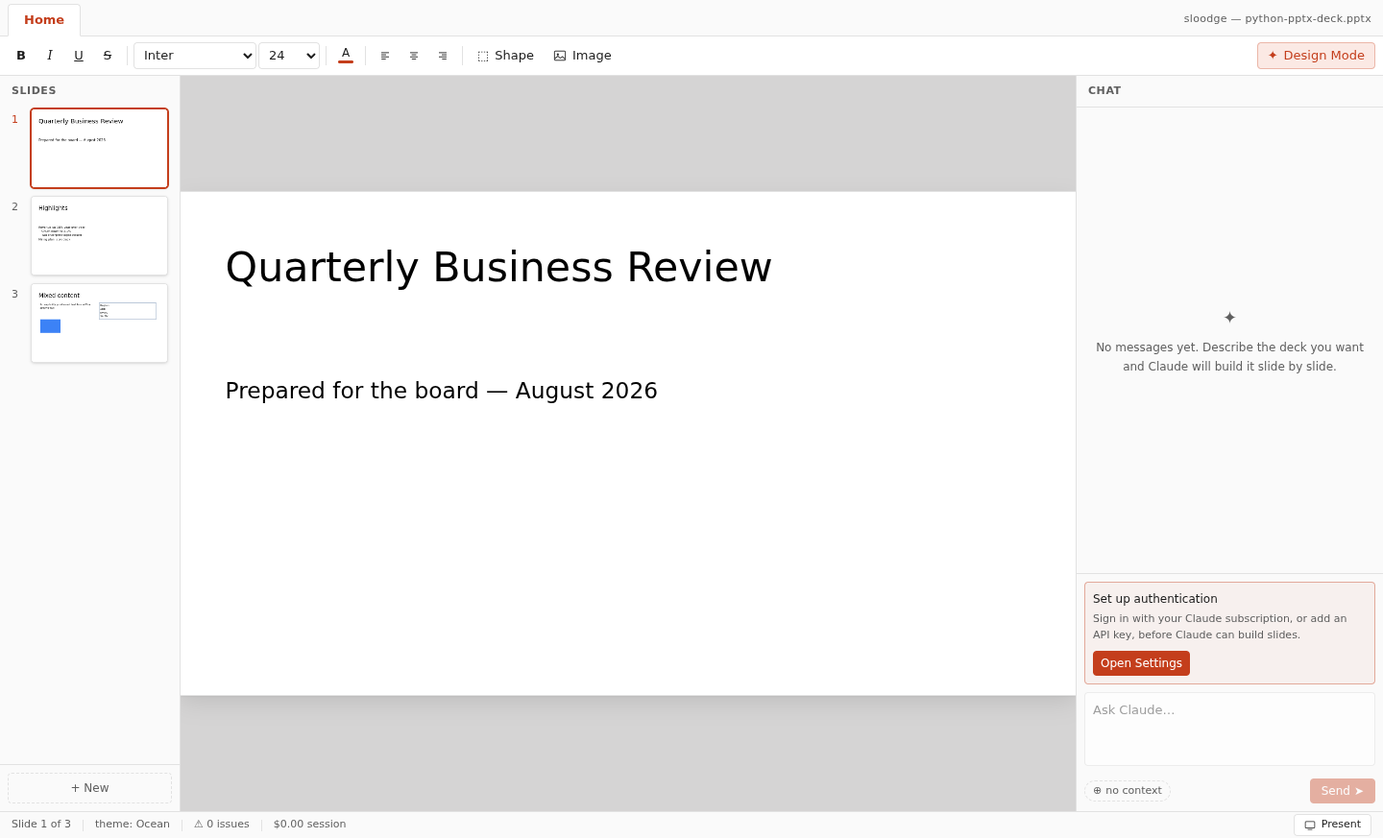
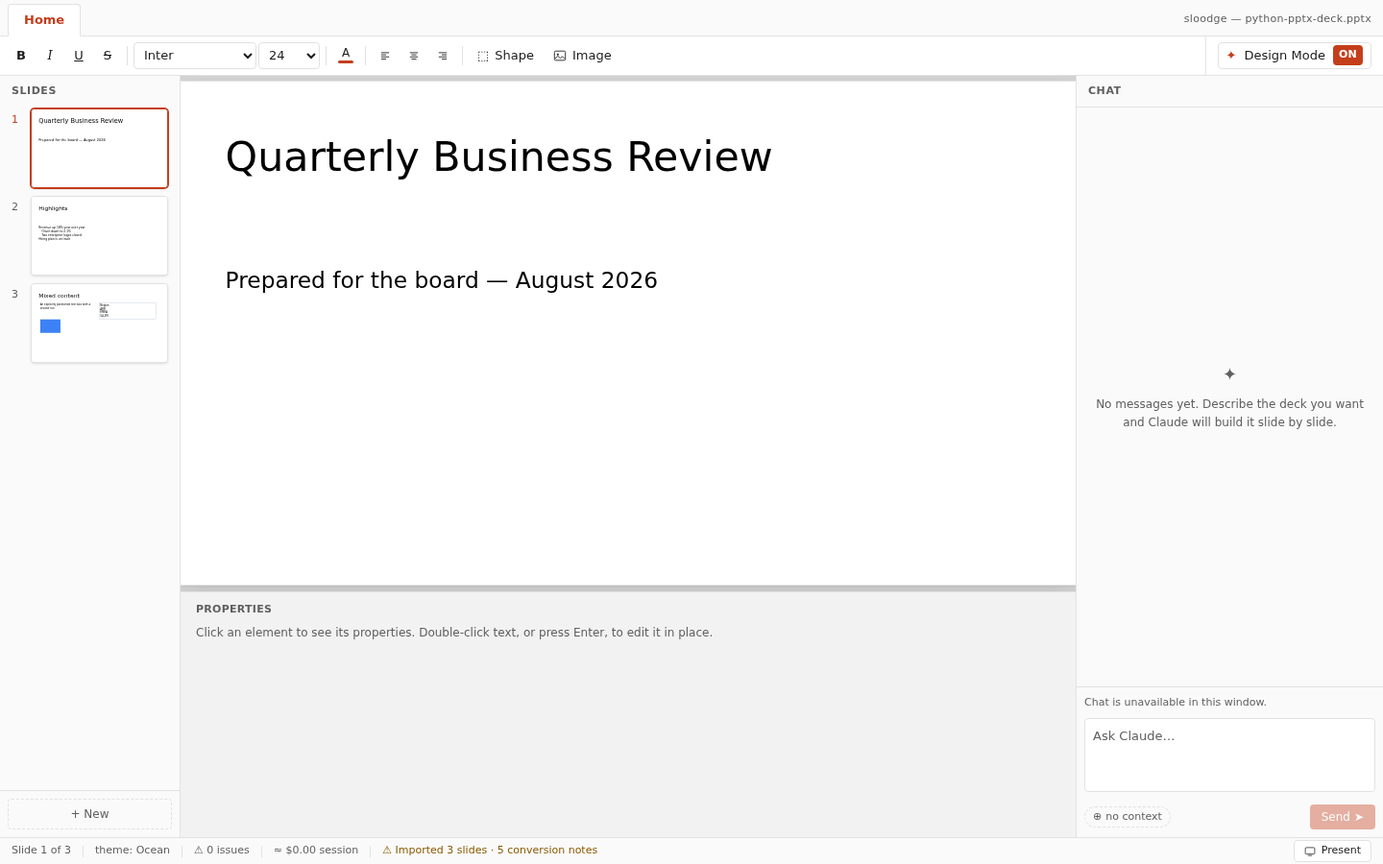
fix: refuse a zip that names a part twice, and three r8 nits
**Major (archive.ts).** The hardened reader accepted a central directory listing
the same entry name twice and silently kept the last. Reproduced through the
real import path: a 44-entry `.pptx` with `ppt/slides/slide1.xml` listed twice
imported with zero warnings and `partCount` 43, rendered the *second* copy, and
a patched export then emitted 43 entries while `verifyPassthrough` and M4.6's
identity test both answered `ok` with an empty `missing` list — because both
compare part-name *sets*, which cannot see a shadowed duplicate. The verifier
was structurally unable to see its own subject, on the boundary M4.5's whole
value proposition rests on.

The reader now refuses the package before a byte is inflated, directory markers
included, the way it already refuses aliased local headers, ZIP64 divergence and
prototype keys. Nothing legitimate is lost: OPC requires part names to be
unique, so a duplicate is malformed to every reader that has an opinion — .NET's
`ZipPackage` refuses it, Python's `zipfile` warns and takes the last, fflate
takes the last silently. `verifyPassthrough`'s docblock now states that its
name-keyed comparison depends on that guarantee.

`zipSync` takes an object, so duplicate keys collapse before it runs and the
archive has to be written by hand: `tests/support/hand-rolled-zip.ts` is a
STORED-only writer for shapes fflate cannot emit. Both halves are covered — a
`.sloodge` whose manifest is shadowed by different bytes, a duplicated directory
[…]

diff --git a/tests/unit/document/store.test.ts b/tests/unit/document/store.test.ts
@@ -12,6 +12,7 @@ import {
 import { createStarterSlideHtml } from '../../../src/shared/document/starter-slide'
 import {
   DEFAULT_THEME_PATH,
+  MANIFEST_ENTRY,
   MAX_FORMAT_VERSION,
   type Theme,
 } from '../../../src/shared/document/types'
@@ -22,6 +23,7 @@ import {
   hasStaleTmp,
   type DeckBundle,
 } from '../../../src/main/document/store'
+import { handRolledZip, type HandRolledEntry } from '../../support/hand-rolled-zip'
 
 const T0 = 1_770_000_000_000
 const THEME_ID = 't_01H8XQZ4P7K2M9NB3VYRTC6FDA'
@@ -928,6 +930,81 @@ describe('archive resource caps — STORED members and aliased local headers (B2
     if (result.ok) return
     expect(result.error.code).toBe('too-large')
     expect(result.error.message).toContain('declares 10000000 entries')
+  })
+})
+
+/** A packed deck's entries, in the order the archive lists them, ready to re-emit by hand. */
+function deckEntriesInOrder(bytes: Uint8Array): HandRolledEntry[] {
+  return Object.entries(unzipSync(bytes)).map(([name, data]) => ({ name, bytes: data }))
+}
+
+describe('archive entry names are unique (r8)', () => {
+  /**
+   * The zip format lets a central directory list one name twice; OPC forbids it, and readers
+   * disagree about a violation — .NET's `ZipPackage` refuses the package, Python's `zipfile` warns
+   * and takes the last, fflate silently takes the last. Round 8 reproduced the consequence through
+   * the real import path: a 44-entry `.pptx` with `ppt/slides/slide1.xml` listed twice imported
+   * with zero warnings, rendered the *second* copy, and a patched export then emitted 43 entries
+   * while `verifyPassthrough` and M4.6's identity test both answered `ok` — because both compare
+   * part-name *sets*, which cannot see a shadowed duplicate.
+   *
+   * So the reader refuses the archive, and these tests are keyed to the property that made the
+   * differential invisible: the duplicate carries *different bytes* from the entry it shadows, and
+   * the control below is the same archive with the same part count and unique names.
+   */
+  async function craftHandRolled(name: string, entries: readonly HandRolledEntry[]) {
+    const path = join(dir, name)
+    await writeFile(path, handRolledZip(entries))
+    return path
+  }
+
+  it('refuses a deck whose central directory names one part twice', async () => {
+    const entries = deckEntriesInOrder(await packDeck(fixtureBundle()))
+    expect(entries.map((entry) => entry.name)).toContain(MANIFEST_ENTRY)
+    // A second copy under the same name, carrying bytes the first does not: last-wins would hand
+    // the reader a manifest the deck never had, and every name-keyed check would call it identical.
+    const path = await craftHandRolled('duplicate-name.sloodge', [
+      ...entries,
+      { name: MANIFEST_ENTRY, bytes: '{"formatVersion":1,"title":"shadow"}' },
+    ])
+
+    const result = await readDeck(path)
+    expect(result.ok).toBe(false)
+    if (result.ok) return
+    expect(result.error.code).toBe('not-a-zip')
+    expect(result.error.message).toContain('more than once')
+    expect(result.error.message).toContain(MANIFEST_ENTRY)
+  })
+
+  it('refuses a duplicated directory marker too', async () => {
+    // The check runs before the `isDirectory` skip on purpose: a marker is a declared name like any
+    // other, and refusing only the names we go on to keep would leave the reader's answer to "what
+    // does this archive contain" different from the archive's own.
+    const entries = deckEntriesInOrder(await packDeck(fixtureBundle()))
+    const path = await craftHandRolled('duplicate-dir-marker.sloodge', [
+      { name: 'assets/', bytes: new Uint8Array(0) },
+      ...entries,
+      { name: 'assets/', bytes: new Uint8Array(0) },
+    ])
+
+    const result = await readDeck(path)
+    expect(result.ok).toBe(false)
+    if (result.ok) return
+    expect(result.error.code).toBe('not-a-zip')
+    expect(result.error.message).toContain('assets/')
+  })
+
+  it('still reads the same hand-rolled archive when every name is unique', async () => {
+    // The control: same writer, same STORED members, same entry count as the duplicate case — so
+    // the rejections above are about the repeated name and not about a hand-rolled zip.
+    const entries = deckEntriesInOrder(await packDeck(fixtureBundle()))
+    const path = await craftHandRolled('unique-names.sloodge', [
+      ...entries,
+      { name: 'assets/extra-note.txt', bytes: '{"formatVersion":1,"title":"shadow"}' },
+    ])
+
+    const result = await readDeck(path)
+    expect(result.ok).toBe(true)
   })
 })
 

diff --git a/tests/unit/import/pptx-import.test.ts b/tests/unit/import/pptx-import.test.ts
@@ -10,7 +10,7 @@
 import { mkdtemp, writeFile } from 'node:fs/promises'
 import { tmpdir } from 'node:os'
 import { join } from 'node:path'
-import { strToU8, unzipSync, zipSync } from 'fflate'
+import { strFromU8, strToU8, unzipSync, zipSync } from 'fflate'
 import { beforeAll, describe, expect, it } from 'vitest'
 import { readFileSync } from 'node:fs'
 import { importPptx, SlideGate } from '../../../src/main/import/pptx-import'
@@ -20,6 +20,7 @@ import { createStarterSlideHtml } from '../../../src/shared/document/starter-sli
 import { parseManifest } from '../../../src/shared/document/types'
 import { LEDGER_ENTRY, ORIGINAL_ARCHIVE_ENTRY } from '../../../src/shared/import/pptx/ledger'
 import { fixturePath, PPTX_FIXTURES, readFixture } from './fixtures'
+import { handRolledZip } from '../../support/hand-rolled-zip'
 
 const NOW = 1_770_000_000_000
 
@@ -351,6 +352,53 @@ describe('rejections — a .pptx is an untrusted zip', () => {
     expect(result.ok).toBe(false)
     if (result.ok) return
     expect(result.error.code).toBe('not-found')
+  })
+
+  it('rejects a package whose central directory names a slide part twice', async () => {
+    // Round 8's differential, through the real import path. Before the reader refused it, this
+    // 44-entry archive imported with zero warnings and `partCount` 43, rendered the *second* copy
+    // of slide 1, and a patched export then emitted 43 entries while `verifyPassthrough` and
+    // M4.6's identity test both answered `ok` with an empty `missing` list — because both compare
+    // part-name sets, which cannot see a shadowed duplicate. The retained-archive guarantee is over
+    // bytes, so a reader that silently drops a part while every check says "identical" is the one
+    // failure retention exists to prevent.
+    //
+    // `zipSync` takes an object, so duplicate keys collapse before it runs; the archive has to be
+    // written by hand.
+    const parts = await fixtureParts()
+    const entries = Object.entries(parts).map(([name, bytes]) => ({ name, bytes }))
+    const slide = entries.find((entry) => entry.name === 'ppt/slides/slide1.xml')
+    if (slide === undefined) throw new Error('fixture has no ppt/slides/slide1.xml')
+
+    const shadow = strFromU8(slide.bytes).replace(
+      /Quarterly Business Review/g,
+      'DUPLICATE SECOND ENTRY',
+    )
+    expect(shadow).not.toBe(strFromU8(slide.bytes)) // the duplicate must differ, or it proves nothing
+
+    const path = join(dir, 'duplicate-part.pptx')
+    await writeFile(path, handRolledZip([...entries, { name: slide.name, bytes: strToU8(shadow) }]))
+
+    const result = await importPptx(path, { now: NOW })
+    expect(result.ok).toBe(false)
+    if (result.ok) return
+    expect(result.error.code).toBe('not-a-zip')
+    expect(result.error.message).toContain('ppt/slides/slide1.xml')
+    expect(result.error.message).toContain('more than once')
+  })
+
+  it('imports the same hand-rolled package when every part name is unique', async () => {
+    // The control: same writer, same STORED members, same part count as the duplicate case, so the
+    // refusal above is about the repeated name rather than about a hand-rolled zip.
+    const parts = await fixtureParts()
+    const entries = Object.entries(parts).map(([name, bytes]) => ({ name, bytes }))
+    const path = join(dir, 'hand-rolled-unique.pptx')
+    await writeFile(path, handRolledZip(entries))
+
+    const result = await importPptx(path, { now: NOW })
+    if (!result.ok) throw new Error(result.error.message)
+    expect(result.report.slideCount).toBe(3)
+    expect(result.report.partCount).toBe(entries.length)
   })
 
   it('rejects a zip that is not an OPC presentation', async () => {

diff --git a/tests/support/hand-rolled-zip.ts b/tests/support/hand-rolled-zip.ts
@@ -1,0 +1,81 @@
+/**
+ * A zip writer for shapes `fflate`'s `zipSync` cannot emit, so the hardened reader can be tested
+ * against files only a hostile or broken producer writes.
+ *
+ * Today that is one shape: a central directory that lists the same entry name twice. `zipSync`
+ * takes an object, so duplicate keys collapse before it ever runs — the only way to build the file
+ * is by hand. Every member is STORED, which keeps the writer to its point (offsets and the central
+ * directory) rather than a deflate implementation; the reader treats STORED and DEFLATE identically
+ * once a member is located, so nothing about the shape under test depends on the method.
+ *
+ * CRCs are left at zero deliberately. Nothing in `archive.ts` verifies them — a STORED member is
+ * `source.slice()` — so writing real ones would assert a property this reader does not have.
+ */
+
+import { strToU8 } from 'fflate'
+
+export type HandRolledEntry = {
+  /** The name as it goes into both headers, byte for byte. Duplicates are written, not merged. */
+  readonly name: string
+  readonly bytes: Uint8Array | string
+}
+
+/**
+ * A zip holding `entries` in the order given, each with its own local header and its own central
+ * directory record. Names are written verbatim, so passing the same name twice produces exactly the
+ * archive OPC forbids and readers disagree about.
+ */
+export function handRolledZip(entries: readonly HandRolledEntry[]): Uint8Array {
+  const locals: Uint8Array[] = []
+  const centrals: Uint8Array[] = []
+  let localOffset = 0
+
+  for (const entry of entries) {
+    const name = strToU8(entry.name)
+    const payload = typeof entry.bytes === 'string' ? strToU8(entry.bytes) : entry.bytes
+
+    const local = new Uint8Array(30 + name.length + payload.length)
+    const localView = new DataView(local.buffer)
+    localView.setUint32(0, 0x0403_4b50, true)
+    localView.setUint16(4, 20, true)
+    localView.setUint16(8, 0, true) // STORED
+    localView.setUint32(18, payload.length, true) // compressed size
+    localView.setUint32(22, payload.length, true) // uncompressed size
+    localView.setUint16(26, name.length, true)
+    local.set(name, 30)
+    local.set(payload, 30 + name.length)
+    locals.push(local)
+
+    const central = new Uint8Array(46 + name.length)
+    const centralView = new DataView(central.buffer)
+    centralView.setUint32(0, 0x0201_4b50, true)
+    centralView.setUint16(4, 20, true)
+    centralView.setUint16(6, 20, true)
+    centralView.setUint16(10, 0, true) // STORED
+    centralView.setUint32(20, payload.length, true)
+    centralView.setUint32(24, payload.length, true)
+    centralView.setUint16(28, name.length, true)
+    centralView.setUint32(42, localOffset, true)
+    central.set(name, 46)
+    centrals.push(central)
+
+    localOffset += local.length
+  }
+
+  const centralSize = centrals.reduce((sum, part) => sum + part.length, 0)
+  const eocd = new Uint8Array(22)
+  const eocdView = new DataView(eocd.buffer)
+  eocdView.setUint32(0, 0x0605_4b50, true)
+  eocdView.setUint16(8, entries.length, true)
+  eocdView.setUint16(10, entries.length, true)
+  eocdView.setUint32(12, centralSize, true)
+  eocdView.setUint32(16, localOffset, true)
+
+  const out = new Uint8Array(localOffset + centralSize + eocd.length)
+  let at = 0
+  for (const part of [...locals, ...centrals, eocd]) {
+    out.set(part, at)
+    at += part.length
+  }
+  return out
+}

diff --git a/tests/unit/import/slide-text-boundary.test.ts b/tests/unit/import/slide-text-boundary.test.ts
@@ -54,8 +54,21 @@ function sourceFiles(dir: string): string[] {
   return out
 }
 
-/** Source files (repo-relative, `/`-separated) containing a `function <name>(` declaration. */
-function definers(pattern: RegExp): string[] {
+/**
+ * Source files (repo-relative, `/`-separated) that *declare* any of `names`.
+ *
+ * A declaration is `function`, `const`, `let` or `class` immediately followed by the name, so a
+ * second copy written as a const arrow is caught as well as one written as a `function` — round 8
+ * showed `const foldForScan = (t: string): string => t` left the `function`-only spelling green.
+ * An `import { name }` is not a declaration and does not match, which is the point: the one file
+ * that defines each name is named below, and every other file may only import it.
+ *
+ * Residual, stated: a copy written as a class method or an object property (`{ foldForScan() {} }`)
+ * has no declaration keyword and is invisible here. #58's `preload-bundle-deps` guard reads esbuild
+ * bindings and does not share that blind spot; the behavioural tests are the net until it lands.
+ */
+function definers(names: readonly string[]): string[] {
+  const pattern = new RegExp(`(?:function|const|let|class)\\s+(?:${names.join('|')})\\b`)
   return sourceFiles(SRC_ROOT)
     .filter((file) => pattern.test(readFileSync(file, 'utf8')))
     .map((file) => relative(process.cwd(), file).split(sep).join('/'))
@@ -109,17 +122,21 @@ describe('text into slide HTML goes through slideText', () => {
   })
 
   it('escapeHtml and the defuser are defined once, in slide-text.ts', () => {
-    expect(definers(/function (?:escapeHtml|defuseForbiddenTokens|slideText)\(/)).toEqual([
+    expect(definers(['escapeHtml', 'defuseForbiddenTokens', 'slideText'])).toEqual([
       'src/shared/document/slide-text.ts',
     ])
   })
 
   it('the SL-S04 matcher is defined once, in slide-contract.ts', () => {
-    // Round 5 lifted `foldForScan`/`forbiddenBreakPoints`/`tokenPattern` out of Design Mode's
-    // text editor so the importer and the editor share one matcher. Until M3.11's branch is
-    // rebased onto that, it carries byte-identical private copies in `text-edit.ts`; this pin
-    // reds the moment both land in one tree, so the dedupe is enforced rather than remembered.
-    expect(definers(/function (?:foldForScan|forbiddenBreakPoints|tokenPattern)\(/)).toEqual([
+    // Round 5 lifted `foldForScan`/`forbiddenBreakPoints`/`tokenPattern` out of Design Mode's text
+    // editor so the importer and the editor share one matcher; the rebase onto M3.11 completed that
+    // dedupe, and `text-edit.ts` now imports all three rather than declaring them. Both writers of
+    // slide text therefore agree with the validator on Unicode case folds by construction, and this
+    // pin reds if either grows a copy again — the rule is enforced rather than remembered.
+    //
+    // When #58's `forbidden-apis.ts` leaf lands, the matcher moves there with the token list and
+    // the expected path below changes with it. That is a deliberate edit, which is the point.
+    expect(definers(['foldForScan', 'forbiddenBreakPoints', 'tokenPattern'])).toEqual([
       'src/shared/document/slide-contract.ts',
     ])
   })

diff --git a/src/main/export/pptx-roundtrip.ts b/src/main/export/pptx-roundtrip.ts
@@ -46,7 +46,7 @@
  */
 
 import { createHash } from 'node:crypto'
-import { strFromU8, strToU8, zipSync, type Zippable } from 'fflate'
+import { strFromU8, strToU8, zipSync } from 'fflate'
 import { readArchiveBytes, type ReadArchiveOptions } from '../document/archive'
 import type { DeckBundle } from '../document/store'
 import {
@@ -210,12 +210,18 @@ export async function exportPptxRoundTrip(
   }
 
   // --- patched ---------------------------------------------------------------------------------
-  const zippable = emptyMap<Uint8Array | [Uint8Array, { level: 0 }]>()
+  const zippable = emptyMap<Uint8Array>()
   const rewritten: string[] = []
 
-  // `[Content_Types].xml` first and STORED, matching what OOXML writers emit. Part order inside a
-  // zip is not semantically meaningful, but keeping the conventional order means a diff against a
+  // `[Content_Types].xml` first, matching what OOXML writers emit. Part order inside a zip is not
+  // semantically meaningful, but keeping the conventional order means a diff against a
   // PowerPoint-written file is about content rather than layout.
+  //
+  // Compression is *not* matched: every part is deflated at level 6, including the ones PowerPoint
+  // stores. M4.6's guarantee is over each part's inflated bytes — which is what `verifyPassthrough`
+  // and the identity test compare — so the container's own encoding is deliberately outside it. A
+  // `patched` export is therefore not byte-identical to the input as a file; only `identity` mode
+  // is, and it re-emits the retained buffer rather than building one.
   const orderedNames = [
     ...Object.keys(archive.entries).filter((name) => name === '[Content_Types].xml'),
     ...Object.keys(archive.entries).filter((name) => name !== '[Content_Types].xml'),
@@ -263,7 +269,7 @@ export async function exportPptxRoundTrip(
     }
   }
 
-  const bytes = zipSync(zippable as Zippable, { level: 6 })
+  const bytes = zipSync(zippable, { level: 6 })
   return {
     mode: 'patched',
     bytes,
@@ -294,6 +300,12 @@ export type PassthroughVerification = {
  * read back out of both packages through the hardened reader, rather than on the writer's own
  * record of what it did. A writer that re-serialized an untouched part would report success and
  * fail here — which is precisely the mutation the milestone requires to go red.
+ *
+ * The comparison is keyed by part *name*, so it can only see one part per name. That is sound
+ * because the hardened reader refuses an archive whose central directory lists a name twice
+ * (`archive.ts`): without that refusal a package could arrive with two copies of a part, leave with
+ * one, and be reported `ok` with an empty `missing` list — the verifier structurally unable to see
+ * its own subject (M4.5 review round 8).
  */
 export async function verifyPassthrough(
   exportedBytes: Uint8Array,

diff --git a/src/main/document/archive.ts b/src/main/document/archive.ts
@@ -671,6 +671,7 @@ export async function readArchiveBytes(
   // (minus their trailing slash) and only *then* skipped: an entry literally named `../../evil/`
   // must not slip through the gate just because it ends in a slash.
   const wanted: CentralEntry[] = []
+  const seen = new Set<string>()
   let totalInflated = 0
   let totalCompressed = 0
   for (const entry of central) {
@@ -682,6 +683,22 @@ export async function readArchiveBytes(
     if (entry.isSymlink) {
       return fail('unsafe-entry', `archive entry is a symlink: ${entry.name}`)
     }
+    // A name the central directory lists twice, refused before a byte is inflated — including
+    // directory markers, so the answer to "what does this archive contain" is the archive's own.
+    //
+    // The zip format permits it and readers disagree about what it means: .NET's `ZipPackage`
+    // refuses the package, Python's `zipfile` warns and takes the last, fflate silently takes the
+    // last. That is the same parser-differential shape this reader already refuses for aliased
+    // local headers, ZIP64 divergence and prototype-polluting keys, and the disagreement is worse
+    // here because every downstream check is keyed by *name*: `verifyPassthrough` and M4.6's
+    // identity test compare part-name sets, so a package that arrived with 44 entries and left with
+    // 43 was reported `ok` with an empty `missing` list (M4.5 review round 8). Nothing legitimate
+    // is refused — OPC requires part names to be unique, so a duplicate is a malformed package to
+    // every reader that has an opinion.
+    if (seen.has(entry.name)) {
+      return fail('not-a-zip', `${label} names ${entry.name} more than once`)
+    }
+    seen.add(entry.name)
     if (isDirectory) continue
 
     // What fflate will actually allocate for this member. STORED (method 0) ignores the declared

diff --git a/.claude/plans/init/80-roadmap.md b/.claude/plans/init/80-roadmap.md
@@ -47,7 +47,7 @@ Principles: every PR is incremental and digestible; titles prefixed `feat/fix/do
 | M4.3 | `feat: PPTX export (structured + raster fallback)` |
 | M4.4 | `feat: HTML export (zip + presenter shell)` |
 | M4.5 | `feat: PPTX import (open .pptx files & templates, not just .sloodge)` — File ▸ Open accepts `.pptx`/`.potx`; slides convert to contract HTML best-effort (text boxes, images, shapes, theme colors/fonts → theme tokens); **the original archive is retained verbatim inside the deck** (`import/original.pptx` + per-part edit ledger) so unedited content never suffers conversion loss; template import takes the package theme (colour scheme) as the sloodge theme — layout/master inheritance is not resolved, which retention makes harmless. **Shipped** (seven review rounds, r7 `approve-with-nits` at confidence 99, then rebased across M8.1/M8.2/M2.5/M4.8a/M3.11): text runs, pictures, autoshapes, groups and theme colours convert; tables/charts/SmartArt keep their text, not their structure; fonts are recorded (`data-sl-pptx-font`), not applied (SL-S03). Every archive-derived string enters slide HTML through one path (`slide-text.ts`'s `slideText`) and every slide enters the deck through one gate (`SlideGate.admit`), both pinned structurally; the SL-S04 matcher (`foldForScan`/`forbiddenBreakPoints`) lives once in `slide-contract.ts` and is shared with M3.11's caret editor, so the validator and both writers agree on Unicode case folds (the U+212A defect r5 found). A lossy open is reported in the status bar (`noticeForOpen`); a clean one shows nothing |
-| M4.6 | `test: PPTX round-trip identity` — imports then exports back to PPTX must reproduce **the exact same file**: a no-edit round-trip re-emits the retained original archive byte-for-byte (asserted by hash in CI-runnable unit tests over fixture decks); an edited round-trip rewrites only the OPC parts the edit touched, with every untouched part asserted byte-identical (part-level passthrough). This gate makes M4.5's retention strategy load-bearing rather than decorative. **Unblocked by M4.5 landing and shipped in the same PR** — `tests/unit/import/pptx-roundtrip-identity.test.ts` asserts the no-edit round-trip against the input file on disk (sha256) through import → writeDeck → readDeck → export, over two fixtures of different provenance. **Shipped with one deferral, recorded in `src/main/document/open-ipc.ts`:** the round-trip exporter (`src/main/export/pptx-roundtrip.ts`) and its identity/passthrough gate are complete and CI-green over two fixtures, but it is not yet reachable from the *UI* export item. It needs the deck's current slide HTML, and the renderer's `DocumentHistory` is today the sole authority for that — main's copy is the one it read at open time and goes stale on the first keystroke. Connecting them is a document-ownership change (renderer→main sync, or moving authority to main), not plumbing, so it belongs to its own milestone rather than being faked with a copy that silently drifts. Until then File ▸ Export ▸ PPTX continues to use M4.3's structured path. **Also deferred:** slide *reorder* is classified `rebuild` rather than `patched`, even though it is in principle a one-part edit to `presentation.xml`'s `sldIdLst` — rewriting that part means re-serializing XML this codebase only reads, and a subtly wrong presentation part would be worse than an honest rebuild |
+| M4.6 | `test: PPTX round-trip identity` — imports then exports back to PPTX must reproduce **the exact same file**: a no-edit round-trip re-emits the retained original archive byte-for-byte (asserted by hash in CI-runnable unit tests over fixture decks); an edited round-trip rewrites only the OPC parts the edit touched, with every untouched part asserted byte-identical (part-level passthrough). This gate makes M4.5's retention strategy load-bearing rather than decorative. **Unblocked by M4.5 landing and shipped in the same PR** — `tests/unit/import/pptx-roundtrip-identity.test.ts` asserts the no-edit round-trip against the input file on disk (sha256) through import → writeDeck → readDeck → export, over two fixtures of different provenance. **Shipped with one deferral, recorded in `src/main/document/open-ipc.ts`:** the round-trip exporter (`src/main/export/pptx-roundtrip.ts`) and its identity/passthrough gate are complete and CI-green over two fixtures, but it is not yet reachable from the *UI* export item. It needs the deck's current slide HTML, and the renderer's `DocumentHistory` is today the sole authority for that — main's copy is the one it read at open time and goes stale on the first keystroke. Connecting them is a document-ownership change (renderer→main sync, or moving authority to main), not plumbing, so it belongs to its own milestone rather than being faked with a copy that silently drifts. Until then File ▸ Export ▸ PPTX continues to use M4.3's structured path. **Also deferred:** slide *reorder* is classified `rebuild` rather than `patched`, even though it is in principle a one-part edit to `presentation.xml`'s `sldIdLst` — rewriting that part means re-serializing XML this codebase only reads, and a subtly wrong presentation part would be worse than an honest rebuild. **What byte-identity does *not* yet pin, recorded by review r8 so this row inherits a concrete list rather than a feeling:** (1) the UI path — `exportPptxRoundTrip` is reached only by tests over disk-read bundles, so a user cannot obtain the byte-identical file from the app; (2) reorder → `rebuild`, above; (3) the container's own encoding in `patched` mode — every part is deflated at level 6, and entry order beyond `[Content_Types].xml` first, compression method and directory markers are outside the claim, which is over each part's *inflated* bytes (duplicate part names are no longer among them: r8 found the reader taking the last silently, and it now refuses the package); (4) M3.11's real `resolveTextEdit` output has never been driven through `exportPptxRoundTrip` — the edited round trip uses an equivalent substitution on the span text, and M3.11 landed after r7, so the marker's survival is reasoning rather than a pin |
 | M4.7 | `feat: present hardening (separate-window PresentService)` — the deferred half of 10-architecture.md §8. M4.1 shipped a same-window renderer overlay (reusing the `slide://` `SlideFrame`, testable, meets the v1 wireframe); M4.7 promotes Present to the main-owned separate-window design: a borderless fullscreen `BrowserWindow` with a per-slide `WebContentsView` for **process-level fault isolation** (a runaway interactive slide must not stall the app mid-talk), the **presenter console** on a second display (current/next/notes/timer), **multi-display targeting** (`screen.getAllDisplays()`), off-screen preload of the next slide, `powerSaveBlocker`, build-step (`data-sl-build`) advancement, and `.`-to-black — over the `present:start`/`present:goto`/`present:state` IPC surface |
 | M4.8 | `perf/feat: PPTX export fidelity` — **Decision (research done, [research/pptx-export-fidelity.md](research/pptx-export-fidelity.md)): keep pptxgenjs; the writer is not the bottleneck.** Measured: pptxgenjs reproduces EMU positions to ≤0.0001 px and colors/sizes exactly; the whole loss is in sloodge's measurement/mapping layer, and **2 of 8 fixture slides scored ≥95 confidence while silently dropping a load-bearing construct** (rotation, gradient background). No JS/Python/Rust/Go/.NET writer or LibreOffice path recovers text the walker never collected, so no library swap and no custom writer. Every 2026 HTML→PPTX project surveyed converged on sloodge's exact architecture (Chromium resolves layout → map rects/computed styles to native shapes). Ships as three PRs, and the round-trip **image-diff harness comes first** (HTML screenshot → export → render `.pptx` back via headless soffice as a pure renderer → diff), because structural checks cannot prove the slide *looks* right: **M4.8a** `test+fix: image-diff harness; stop the silent lies` — rotation from the transform matrix into `rot`, gradient/image body background as full-bleed picture, scorer sees `measure.body`, hard deduction for any un-modelled construct; **M4.8b** `feat: run-level text` — one text box per block with one run per text node (`<p>a <strong>b</strong> c</p>` → 1 box, 3 runs); **M4.8c** `feat: sub-region rasterization with decoration-only capture` — svg/canvas/img and un-modelled nodes become positioned pictures with text redrawn as vector runs on top, asserting the invariant *text is never rasterized*. Targets the tests assert: ≥99 % text nodes verbatim, 100 % exact hex, rotated elements 3/3 within 0.1°, **zero** slides scoring ≥90 that drop a construct. The structured exporter is only reachable in M4.5's `rebuild` mode — a boundary test pins that M4.8 cannot alter `identity`/`patched` output |
 
